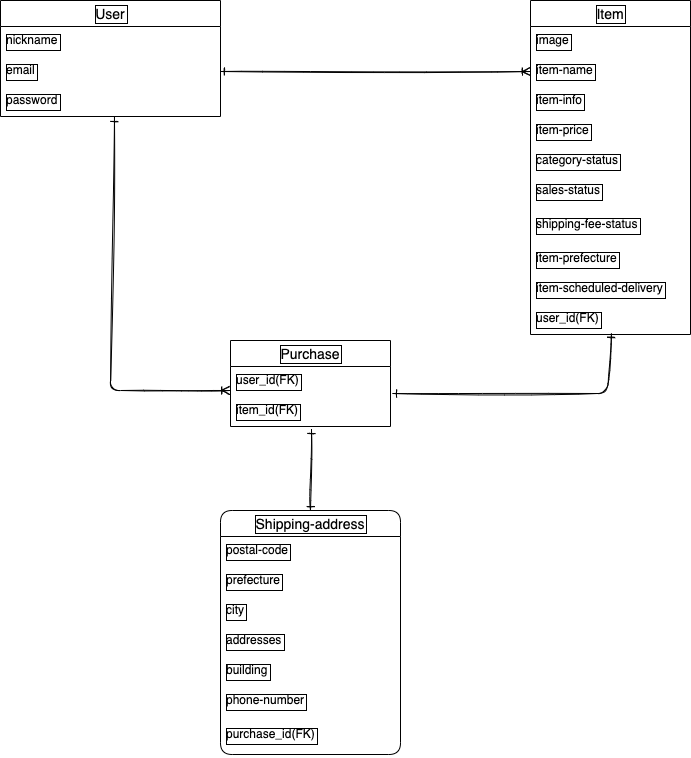
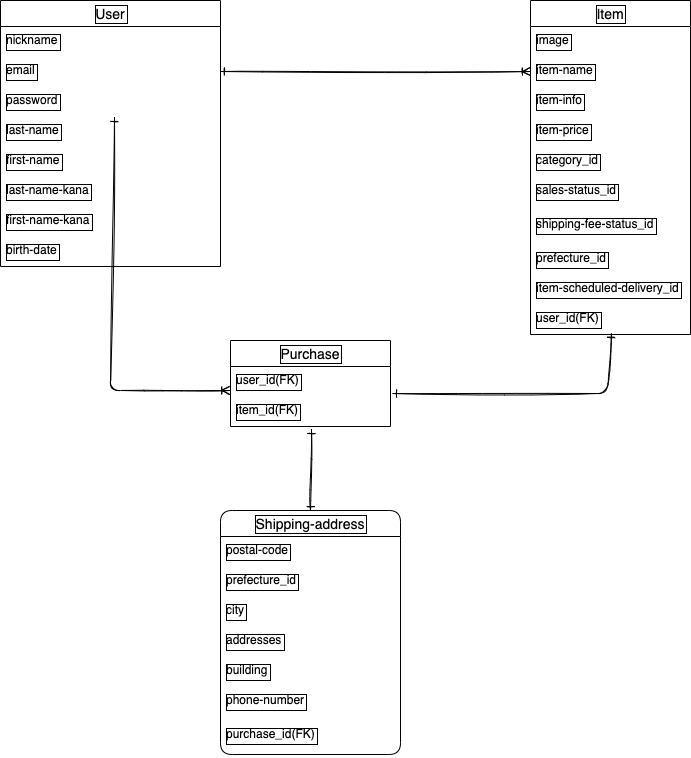
データベース設計の再訂正
生年月日のカラム型の訂正、
ER図の変更

diff --git a/README.md b/README.md
@@ -11,7 +11,7 @@
 | first-name         | string  | null: false               |
 | last-name-kana     | string  | null: false               |
 | first-name-kana    | string  | null: false               |
-| birth-date_id      | integer | null: false               |
+| birth-date         | date    | null: false               |
 
 ### Association
 - has_many :items
